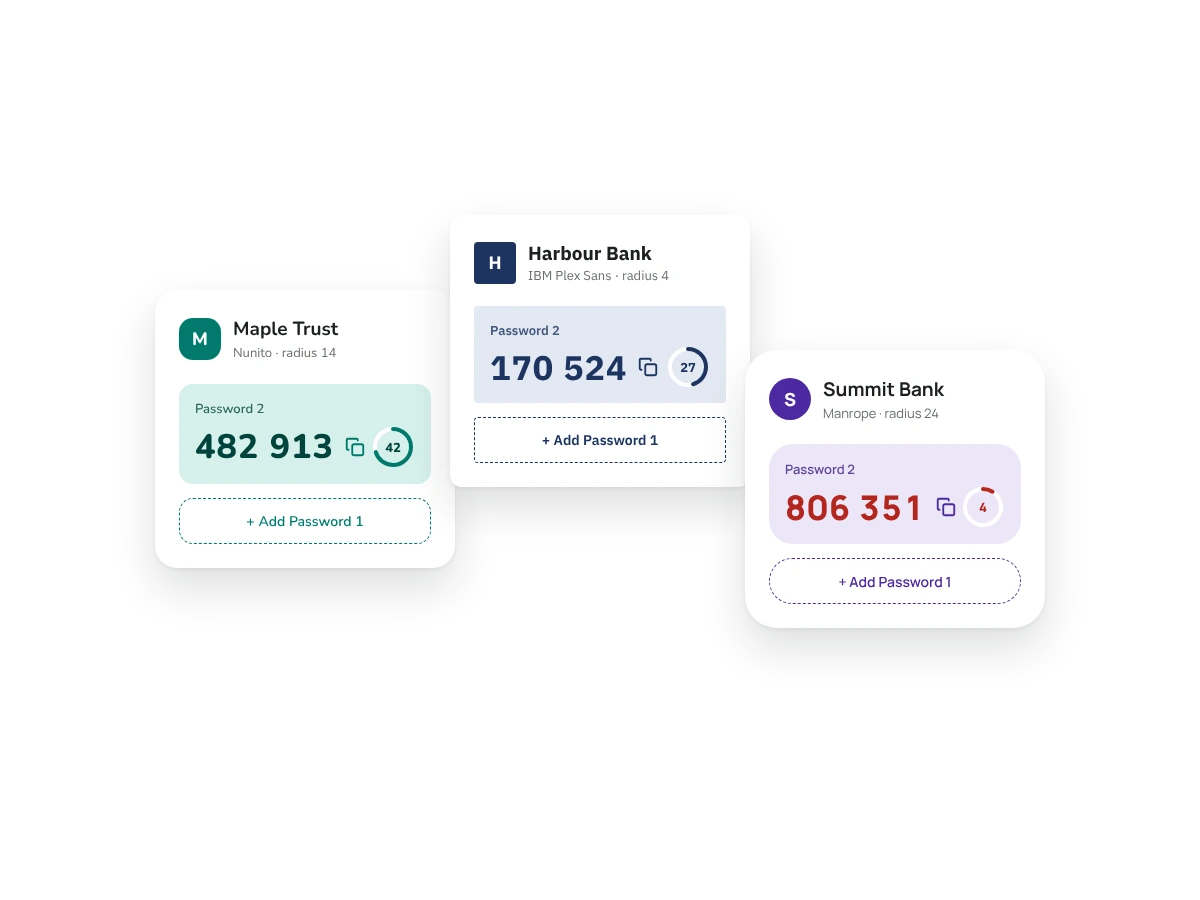
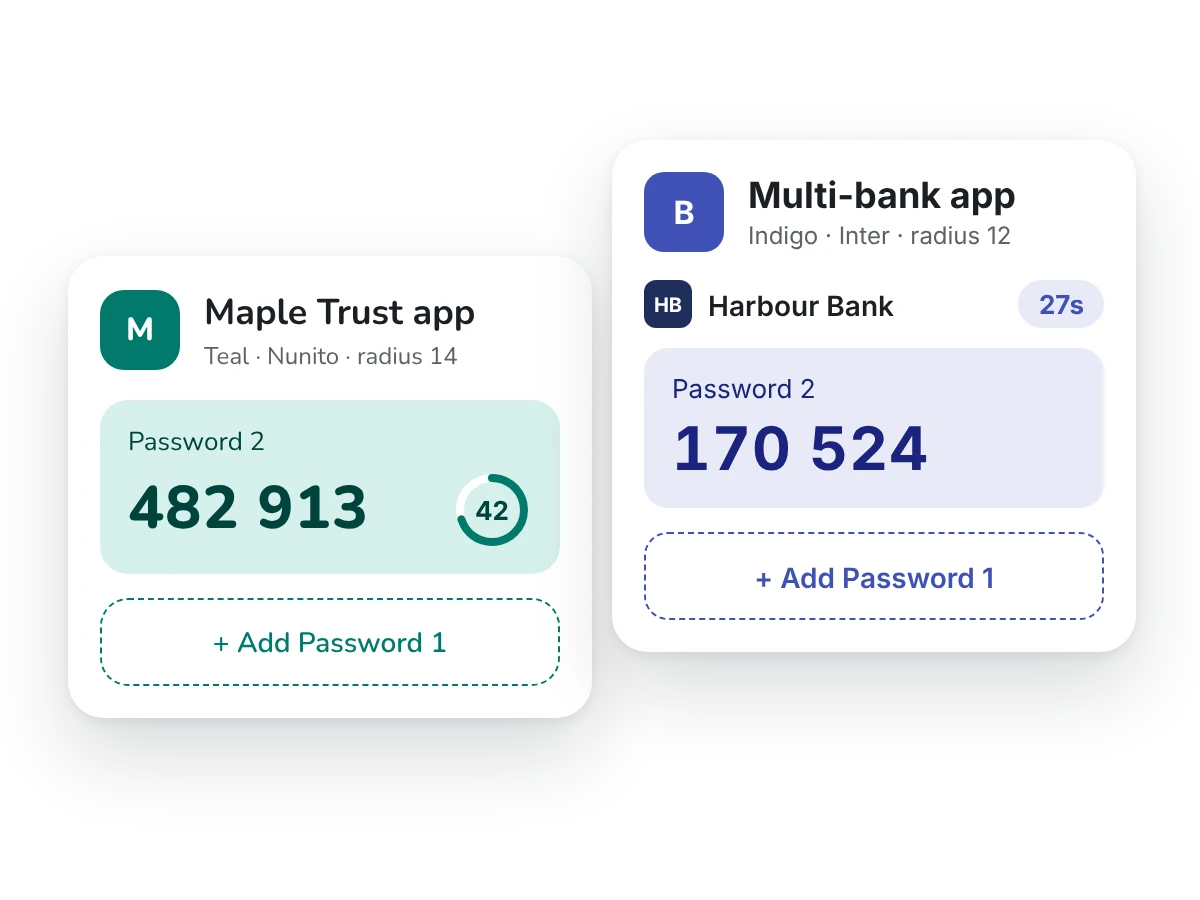
images got updated on otp

diff --git a/otp-authenticator.html b/otp-authenticator.html
@@ -75,7 +75,7 @@
         .otp-demo { display: grid; grid-template-columns: 1fr minmax(280px, 360px); gap: var(--space-5); align-items: center; margin-top: var(--space-6); padding-top: var(--space-5); border-top: 1px solid var(--color-border); }
         @media screen and (max-width: 900px) { .otp-demo { grid-template-columns: 1fr; gap: var(--space-3); } }
         .otp-demo__text p { color: var(--color-text-secondary); margin: 0; }
-        .otp-card { --otp-accent: var(--color-text-primary); background: var(--color-bg-card); border: 1px solid var(--color-border); border-radius: 20px; padding: 20px; box-shadow: var(--shadow-md); }
+        .otp-card { --otp-accent: #00796B; background: var(--color-bg-card); border: 1px solid var(--color-border); border-radius: 20px; padding: 20px; box-shadow: var(--shadow-md); }
         .otp-card.is-urgent { --otp-accent: #B3261E; }
         .otp-card__head { display: flex; justify-content: space-between; font-size: var(--fs-small); margin-bottom: 14px; }
         .otp-card__bank { font-weight: 600; }
@@ -235,7 +235,7 @@
                 </div>
             </div>
 
-            <img src="images/otp-hero.webp" alt="Three screens of the OTP app: adding a bank, the list of banks with password codes and countdown timers, and activating passwords" width="1600" height="900" style="width: 100%; height: auto; border-radius: var(--radius-md); box-shadow: var(--shadow-md); display: block;" />
+            <img src="images/otp-hero.webp" alt="Three screens of the multi-bank app: adding a bank, the list of banks with password codes and seconds left, and activating passwords" width="1600" height="900" style="width: 100%; height: auto; border-radius: var(--radius-md); box-shadow: var(--shadow-md); display: block;" />
 
             <p class="ownership" style="margin-top: var(--space-3); max-width: 100%;"><strong>My part:</strong> I designed the flows and screens of both apps, for iOS and Android.</p>
 
@@ -285,19 +285,19 @@
             <p style="max-width: 100%;">Three steps in the multi-bank app, from installing it to paying. The Maple Trust app skips Step 1: it already knows the bank, so it registers by phone.</p>
             <div class="grid-3" style="margin-top: var(--space-4);">
                 <article class="card">
-                    <div class="phone"><img src="images/otp-add-new-bank.webp" alt="Add New Bank screen with four bank tiles and a Scan Code button" loading="lazy" width="390" height="844" /></div>
+                    <div class="phone"><img src="images/otp-add-new-bank.webp" alt="Add New Bank screen with four bank tiles, Harbour Bank selected, and a Scan Code button" loading="lazy" width="390" height="844" /></div>
                     <span class="step-num">Step 1</span>
                     <h3>Add a bank</h3>
                     <p>The user picks their bank. Then they scan the code they got from their branch or internet banking.</p>
                 </article>
                 <article class="card">
-                    <div class="phone"><img src="images/otp-enter-bank-passwords.webp" alt="Enter Bank Passwords screen with Password 1 selected, an activation code field and a backup PIN field" loading="lazy" width="390" height="844" /></div>
+                    <div class="phone"><img src="images/otp-enter-bank-passwords.webp" alt="Enter Bank Passwords screen for Harbour Bank with Password 1 selected and an activation code field" loading="lazy" width="390" height="844" /></div>
                     <span class="step-num">Step 2</span>
                     <h3>Activate passwords</h3>
                     <p>They pick Password 1, Password 2, or both. Then they enter the activation code from the SMS.</p>
                 </article>
                 <article class="card">
-                    <div class="phone"><img src="images/otp-bank-list.webp" alt="Bank List screen showing bank cards, each with a password code, a copy button and a countdown ring" loading="lazy" width="390" height="844" /></div>
+                    <div class="phone"><img src="images/otp-bank-list.webp" alt="Bank List screen showing bank cards, each with a password code, a copy button and the seconds left; one turns red in its last 5 seconds" loading="lazy" width="390" height="844" /></div>
                     <span class="step-num">Step 3</span>
                     <h3>Use a password</h3>
                     <p>Each bank has one card. It shows the active passwords, the time left and a copy button.</p>
@@ -309,11 +309,11 @@
                 <div class="otp-demo__text">
                     <span class="step-num">Try it</span>
                     <h3 id="otp-demo-title">The password card, live</h3>
-                    <p>The ring shows how long the code works. In the last 5 seconds it turns red, so you know to use it now. Tap copy and you see a check, so you know it worked. The codes here are random numbers, made for this demo.</p>
+                    <p>This is the Maple Trust app&rsquo;s card. The ring shows how long the code works. In the last 5 seconds it turns red, so you know to use it now. Tap copy and you see a check, so you know it worked. The codes here are random numbers, made for this demo.</p>
                 </div>
                 <div class="otp-card">
                     <div class="otp-card__head">
-                        <span class="otp-card__bank">Your bank</span>
+                        <span class="otp-card__bank">Maple Trust</span>
                         <span class="otp-card__which">Password 2</span>
                     </div>
                     <div class="otp-card__row">
@@ -357,7 +357,7 @@
                 <article class="card">
                     <span class="badge">Time pressure</span>
                     <h3>Expiry you can read at a glance</h3>
-                    <p>A ring shows the seconds left, as a number. In the last 5 seconds it turns red. The number is always there, so the warning doesn&rsquo;t depend on color only.</p>
+                    <p>In the Maple Trust app, a ring shows the seconds left, as a number. In the multi-bank app, each bank card shows the seconds as text. In both, the last 5 seconds turn red. The number is always there, so the warning doesn&rsquo;t depend on color only.</p>
                 </article>
                 <article class="card">
                     <span class="badge">Speed</span>
@@ -373,7 +373,7 @@
                     <p>The app has its own lock, a pattern or a password. Users can also set when it locks. So even if the phone is unlocked, the card passwords stay safe.</p>
                 </article>
                 <article class="card">
-                    <div class="phone"><img src="images/otp-bank-support.webp" alt="Bank Support screen listing six banks with a call button for each" loading="lazy" width="390" height="844" /></div>
+                    <div class="phone"><img src="images/otp-bank-support.webp" alt="Bank Support screen listing five banks with a call button for each" loading="lazy" width="390" height="844" /></div>
                     <h3>Help one tap away</h3>
                     <p>Lost a card? Password not working? Each bank&rsquo;s support number is there with a call button. Users can also report a problem with the app.</p>
                 </article>

diff --git a/index.html b/index.html
@@ -97,7 +97,7 @@
             <h2 class="section-title">Selected Work</h2>
             <p class="section-intro">Real products I shipped. Some names are changed for privacy.</p>
             <a class="work-card work-card--feature" href="otp-authenticator" style="margin-top: var(--space-4);">
-                <div class="work-card__media"><img src="images/otp-thumbnail.webp" alt="Three screens of the Offline OTP Authenticator app" /></div>
+                <div class="work-card__media"><img src="images/otp-thumbnail.webp" alt="Three screens of the multi-bank OTP app: adding a bank, the bank list and activating passwords" /></div>
                 <div>
                     <p class="work-card__meta">Shipped &middot; Carrene &middot; iOS &amp; Android</p>
                     <h3 class="work-card__title">Offline OTP <span class="nowrap">Authenticator&nbsp;<span class="arrow" aria-hidden="true">&rarr;</span></span></h3>
@@ -105,7 +105,7 @@
                 </div>
             </a>
             <a class="work-card work-card--feature" href="otp-design-system" style="margin-top: var(--space-4);">
-                <div class="work-card__media"><img src="images/otp-ds-thumbnail.webp" alt="The same button component in three bank themes: teal, navy and violet" loading="lazy" /></div>
+                <div class="work-card__media"><img src="images/otp-ds-thumbnail.webp" alt="The same password card in two themes: the Maple Trust app in teal and the multi-bank app in indigo" loading="lazy" /></div>
                 <div>
                     <p class="work-card__meta">Shipped &middot; Carrene &middot; Design system</p>
                     <h3 class="work-card__title">One Design System, <span class="nowrap">Three Bank Apps&nbsp;<span class="arrow" aria-hidden="true">&rarr;</span></span></h3>

diff --git a/otp-design-system.html b/otp-design-system.html
@@ -235,7 +235,7 @@
                 </div>
             </div>
 
-            <img src="images/otp-ds-hero.webp" alt="The same button component in three bank themes: Maple Trust in teal, Harbour Bank in navy, Summit Bank in violet, each with default, pressed, focus, disabled and loading states" width="1600" height="900" style="width: 100%; height: auto; border-radius: var(--radius-md); box-shadow: var(--shadow-md); display: block;" />
+            <img src="images/otp-ds-hero.webp" alt="The same button component in two themes: the Maple Trust app in teal with Nunito, and the multi-bank app in indigo with Inter, each with default, pressed, focus, disabled and loading states" width="1600" height="900" style="width: 100%; height: auto; border-radius: var(--radius-md); box-shadow: var(--shadow-md); display: block;" />
 
             <p class="ownership" style="margin-top: var(--space-3); max-width: 100%;"><strong>My part:</strong> I built this design system on my own.</p>
 
